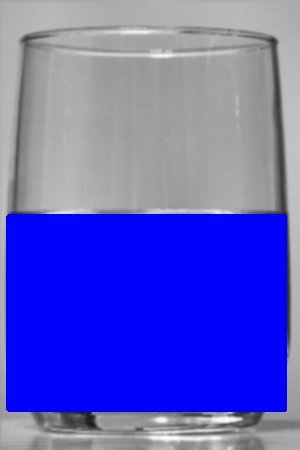
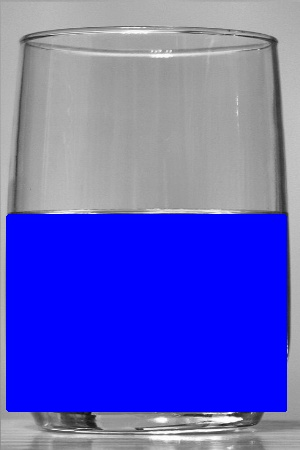
ajout evaluation

diff --git a/code/Source.cpp b/code/Source.cpp
@@ -247,8 +247,8 @@ Mat remplirSurface(Mat& image, vector<Vec4i> vecteur) {
 	
 	Mat imageF;
 	cvtColor(image, imageF, COLOR_GRAY2BGR);
-	int width = abs(vecteur[0][0] - vecteur[0][2]), height = abs(vecteur[0][1] - vecteur[1][1]);
-	Rect rec = Rect(vecteur[0][0], vecteur[0][1], width, height);
+	Rect rec = Rect(vecteur[0][0], vecteur[0][1], vecteur[0][2], vecteur[1][3]);
+	cout << vecteur.at(0)<< endl<<vecteur.at(1);
 	//dessiner le rectangle
 	rectangle(imageF,rec, Scalar(255, 0, 0), 3,8 ,0);
 	int index = vecteur[0][1];
